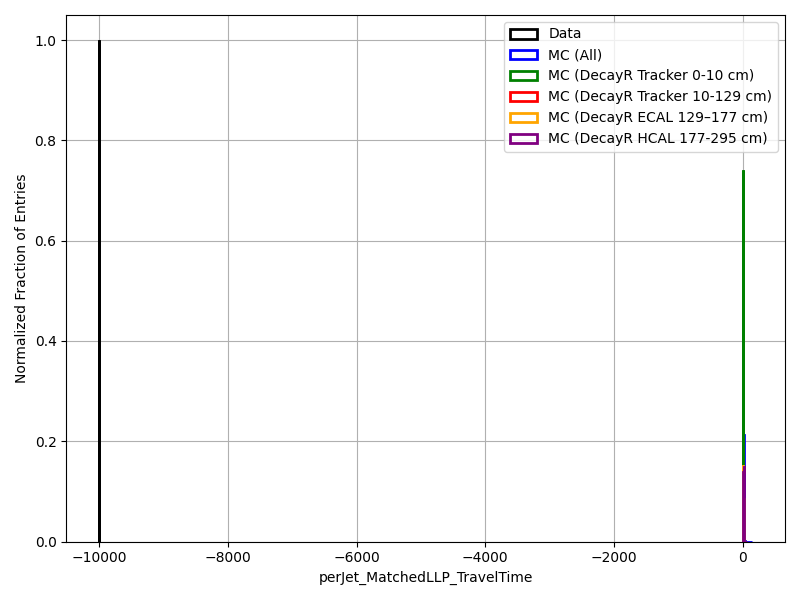
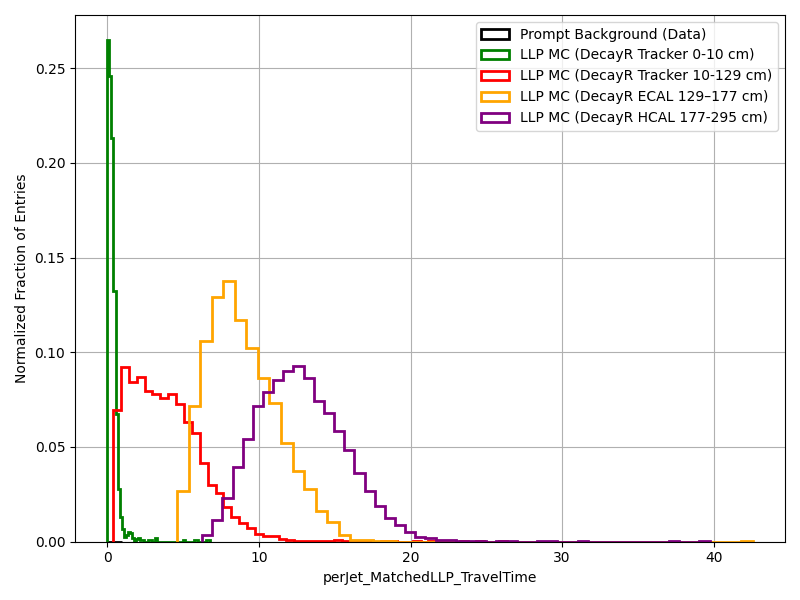
made bins more clean

diff --git a/JetTimingStudy.py b/JetTimingStudy.py
@@ -11,6 +11,27 @@ tree_name = "PerJet_NoSel"
 
 # -- Variables to plot
 variables_to_plot = ["perJet_EnergyFrac_Depth1", "perJet_NeutralHadEFrac", "perJet_Pt", "perJet_Mass", "perJet_Area", "perJet_ChargedHadEFrac", "perJet_PhoEFrac", "perJet_EleEFrac", "perJet_MuonEFrac", "perJet_MatchedLLP_DecayZ", "perJet_MatchedLLP_DecayR", "perJet_MatchedLLP_TravelTime", "perJet_MatchedLLP_Eta", "perJet_S_phiphi", "perJet_S_etaeta", "perJet_S_etaphi"]
+
+detailed_variables_to_plot = [
+    ("perJet_EnergyFrac_Depth1", True, -0.25, 2),
+    ("perJet_NeutralHadEFrac", False, 0, 2),
+    ("perJet_Pt", True, -10, 300),
+    ("perJet_Mass", True, -10, 60),
+    ("perJet_Area", False, 0, 0),
+    ("perJet_ChargedHadEFrac", False, 0, 1),
+    ("perJet_PhoEFrac", False, 0, 0),
+    ("perJet_EleEFrac", True, 0, 0.2),
+    ("perJet_MuonEFrac", True, 0, 0.2),
+    ("perJet_MatchedLLP_DecayZ", False, -100, 100),
+    ("perJet_MatchedLLP_DecayR", False, -150, 150),
+    ("perJet_MatchedLLP_TravelTime", False, -10, 10),
+    ("perJet_MatchedLLP_Eta", False, -10, 10),
+    ("perJet_S_phiphi", True, -0.2, 0.2),
+    ("perJet_S_etaeta", True, -0.2, 0.2),
+    ("perJet_S_etaphi", True, -0.2, 0.2)
+]
+
+
 # -- Selection functions
 def load_tree(file_path, tree_name):
     file = uproot.open(file_path)
@@ -32,45 +53,64 @@ mc_arrays = mc_tree.arrays(variables_to_plot + ["Pass_LLPMatched", "perJet_Match
 data_mask = data_arrays["Pass_WPlusJets"] == 1 # .sum() tells us only 2/79724 entries pass the data mask
 mc_mask = mc_arrays["Pass_LLPMatched"] == 1 # would also add must pass the LLP trigger selection
 
+data_vars_to_ignore = ["perJet_MatchedLLP_Eta", "perJet_MatchedLLP_DecayZ", "perJet_MatchedLLP_DecayR", "perJet_MatchedLLP_TravelTime"]
+
 # -- Option: Additional MC cuts
+def get_cut(arrays, var_name, lower_bound, upper_bound):
+    return (arrays[var_name] >= lower_bound) & (arrays[var_name] <= upper_bound)
+
 def get_decay_r_mc_cut(mc_arrays, decayr_min, decayr_max):
     return (mc_arrays["perJet_MatchedLLP_DecayR"] > decayr_min) & (mc_arrays["perJet_MatchedLLP_DecayR"] < decayr_max)
 
 def get_timing_mc_cut(mc_arrays, time_min, time_max):
-    return (mc_arrays["perJet_MatchedLLP_TravelTime"] > time_min) & (mc_arrays["perJet_MatchedLLP_TravelTime"] < time_max) # seems to be only time var
+    return (mc_arrays["perJet_MatchedLLP_TravelTime"] > time_min) & (mc_arrays["perJet_MatchedLLP_TravelTime"] < time_max)
+
+def get_eta_mc_cut(mc_arrays, eta_min, eta_max):
+    return (mc_arrays["perJet_MatchedLLP_Eta"] > eta_min) & (mc_arrays["perJet_MatchedLLP_Eta"] < eta_max)
+
+def get_graph_range_cut(data_array, var_name, lower_bound, upper_bound): 
+    return (data_array[var_name] >= lower_bound) & (data_array[var_name] <= upper_bound)
 
 # -- Plotting function with normalization option
-def make_overlay_plot(var_name, bins=50, range=None, extra_mc_cuts=None, normalize_to_one=False, output_prefix="plot"):
+def make_overlay_plot(var_name, modified_range=False, lower_bound=None, upper_bound=None, bins=50, extra_mc_cuts=None, normalize_to_one=False, output_prefix="plot"):
     print("Running plotting function: make_overlay_plot() for " + var_name)
     plt.figure(figsize=(8, 6))
 
     # Base selections
-    data_vals = data_arrays[var_name][data_mask]
-    mc_vals = mc_arrays[var_name][mc_mask]
+    if modified_range:
+        range_cut_mask = get_graph_range_cut(data_arrays, var_name, lower_bound, upper_bound)
+        data_vals = data_arrays[var_name][data_mask & range_cut_mask]
+    else:
+        data_vals = data_arrays[var_name][data_mask]
 
     # Draw data
-    hist_kwargs = dict(bins=bins, range=range, histtype='step', linewidth=2)
+    hist_range = (lower_bound, upper_bound) if modified_range else None
+    hist_kwargs = dict(bins=bins, range=hist_range, histtype='step', linewidth=2)
+
+    # To Read Graphs Better
+    if var_name in data_vars_to_ignore:
+        data_vals = []
 
     if normalize_to_one:
         data_weights = np.ones_like(data_vals) / len(data_vals) if len(data_vals) > 0 else None # basically doing 1/N for the histogram to normalize it
-        mc_weights = np.ones_like(mc_vals) / len(mc_vals) if len(mc_vals) > 0 else None
-        plt.hist(data_vals, weights=data_weights, label="Data", color="black", **hist_kwargs)
-        plt.hist(mc_vals, weights=mc_weights, label="MC (All)", color="blue", **hist_kwargs)
+        plt.hist(data_vals, weights=data_weights, label="Prompt Background (Data)", color="black", **hist_kwargs)
     else:
-        plt.hist(data_vals, label="Data", color="black", **hist_kwargs)
-        plt.hist(mc_vals, label="MC (All)", color="blue", **hist_kwargs)
+        plt.hist(data_vals, label="Prompt Background (Data)", color="black", **hist_kwargs)
 
     # Extra MC cuts (optional)
     if extra_mc_cuts:
         for label, (tmin, tmax), color in extra_mc_cuts:
-            # cut_mask = mc_mask & get_decay_r_mc_cut(mc_arrays, rmin, rmax)
-            cut_mask = mc_mask & get_timing_mc_cut(mc_arrays, tmin, tmax) # need to make the code cleaner so you can switch btwn diff cut types
+            if modified_range:
+                cut_mask = mc_mask & get_decay_r_mc_cut(mc_arrays, tmin, tmax) & get_graph_range_cut(mc_arrays, var_name, lower_bound, upper_bound)
+            else:
+                cut_mask = mc_mask & get_decay_r_mc_cut(mc_arrays, tmin, tmax)
             vals = mc_arrays[var_name][cut_mask]
+
             if normalize_to_one and len(vals) > 0:
                 weights = np.ones_like(vals) / len(vals)
             else:
                 weights = None
-            plt.hist(vals, weights=weights, label=f"MC ({label})", color=color, **hist_kwargs)
+            plt.hist(vals, weights=weights, label=f"LLP MC ({label})", color=color, **hist_kwargs)
 
     plt.xlabel(var_name)
     plt.ylabel("Normalized Fraction of Entries" if normalize_to_one else "Entries")
@@ -78,7 +118,7 @@ def make_overlay_plot(var_name, bins=50, range=None, extra_mc_cuts=None, normali
     plt.grid(True)
     plt.tight_layout()
     outname = f"{output_prefix}_{var_name}_normalized.png" if normalize_to_one else f"{output_prefix}_{var_name}.png"
-    outname = f"time_constraint_graphs/{outname}"
+    outname = f"decay_radius_constraint_graphs/{outname}"
     plt.savefig(outname)
     plt.close()
 
@@ -86,11 +126,6 @@ def make_overlay_plot(var_name, bins=50, range=None, extra_mc_cuts=None, normali
 
 # -- Extra MC regions to compare (optional)
 extra_decay_r_mc_regions = [
-    ("DecayR 0-129 cm", (0, 129), "green"),
-    ("DecayR 183-295 cm", (183, 295), "red")
-]
-
-more_decay_r_mc_regions_constraints = [
     ("DecayR Tracker 0-10 cm", (0, 10), "green"),
     ("DecayR Tracker 10-129 cm", (10, 129), "red"),
     ("DecayR ECAL 129–177 cm", (129, 177), "orange"),
@@ -98,12 +133,14 @@ more_decay_r_mc_regions_constraints = [
 ]
 
 extra_time_constraints = [
-    ("Time 0-0.5 µs", (0, 0.5), "green"),
-    ("Time 0.5-1 µs", (0.5, 1), "red"),
-    ("Time 1-2 µs", (1, 2), "purple"),
+    ("Time 0-1 ns", (0, 1), "green"), # change the range based on the graph 
+    ("Time 1-5 ns", (1, 5), "red"),
+    ("Time 5-10 ns", (5, 10), "purple"),
 ]
+
+# add eta constraints also based on the graph
 
 # -- Loop over variables and make plots with normalization option
 normalize = True  # Set this flag to True or False based on your need
-for var in variables_to_plot:
-    make_overlay_plot(var, bins=50, range=None, extra_mc_cuts=extra_time_constraints, normalize_to_one=normalize, output_prefix="overlay")
+for var, modify_range, lower_bound, upper_bound  in detailed_variables_to_plot:
+    make_overlay_plot(var, modified_range=modify_range, lower_bound=lower_bound, upper_bound=upper_bound, bins=50, extra_mc_cuts=extra_decay_r_mc_regions, normalize_to_one=normalize, output_prefix="overlay")
